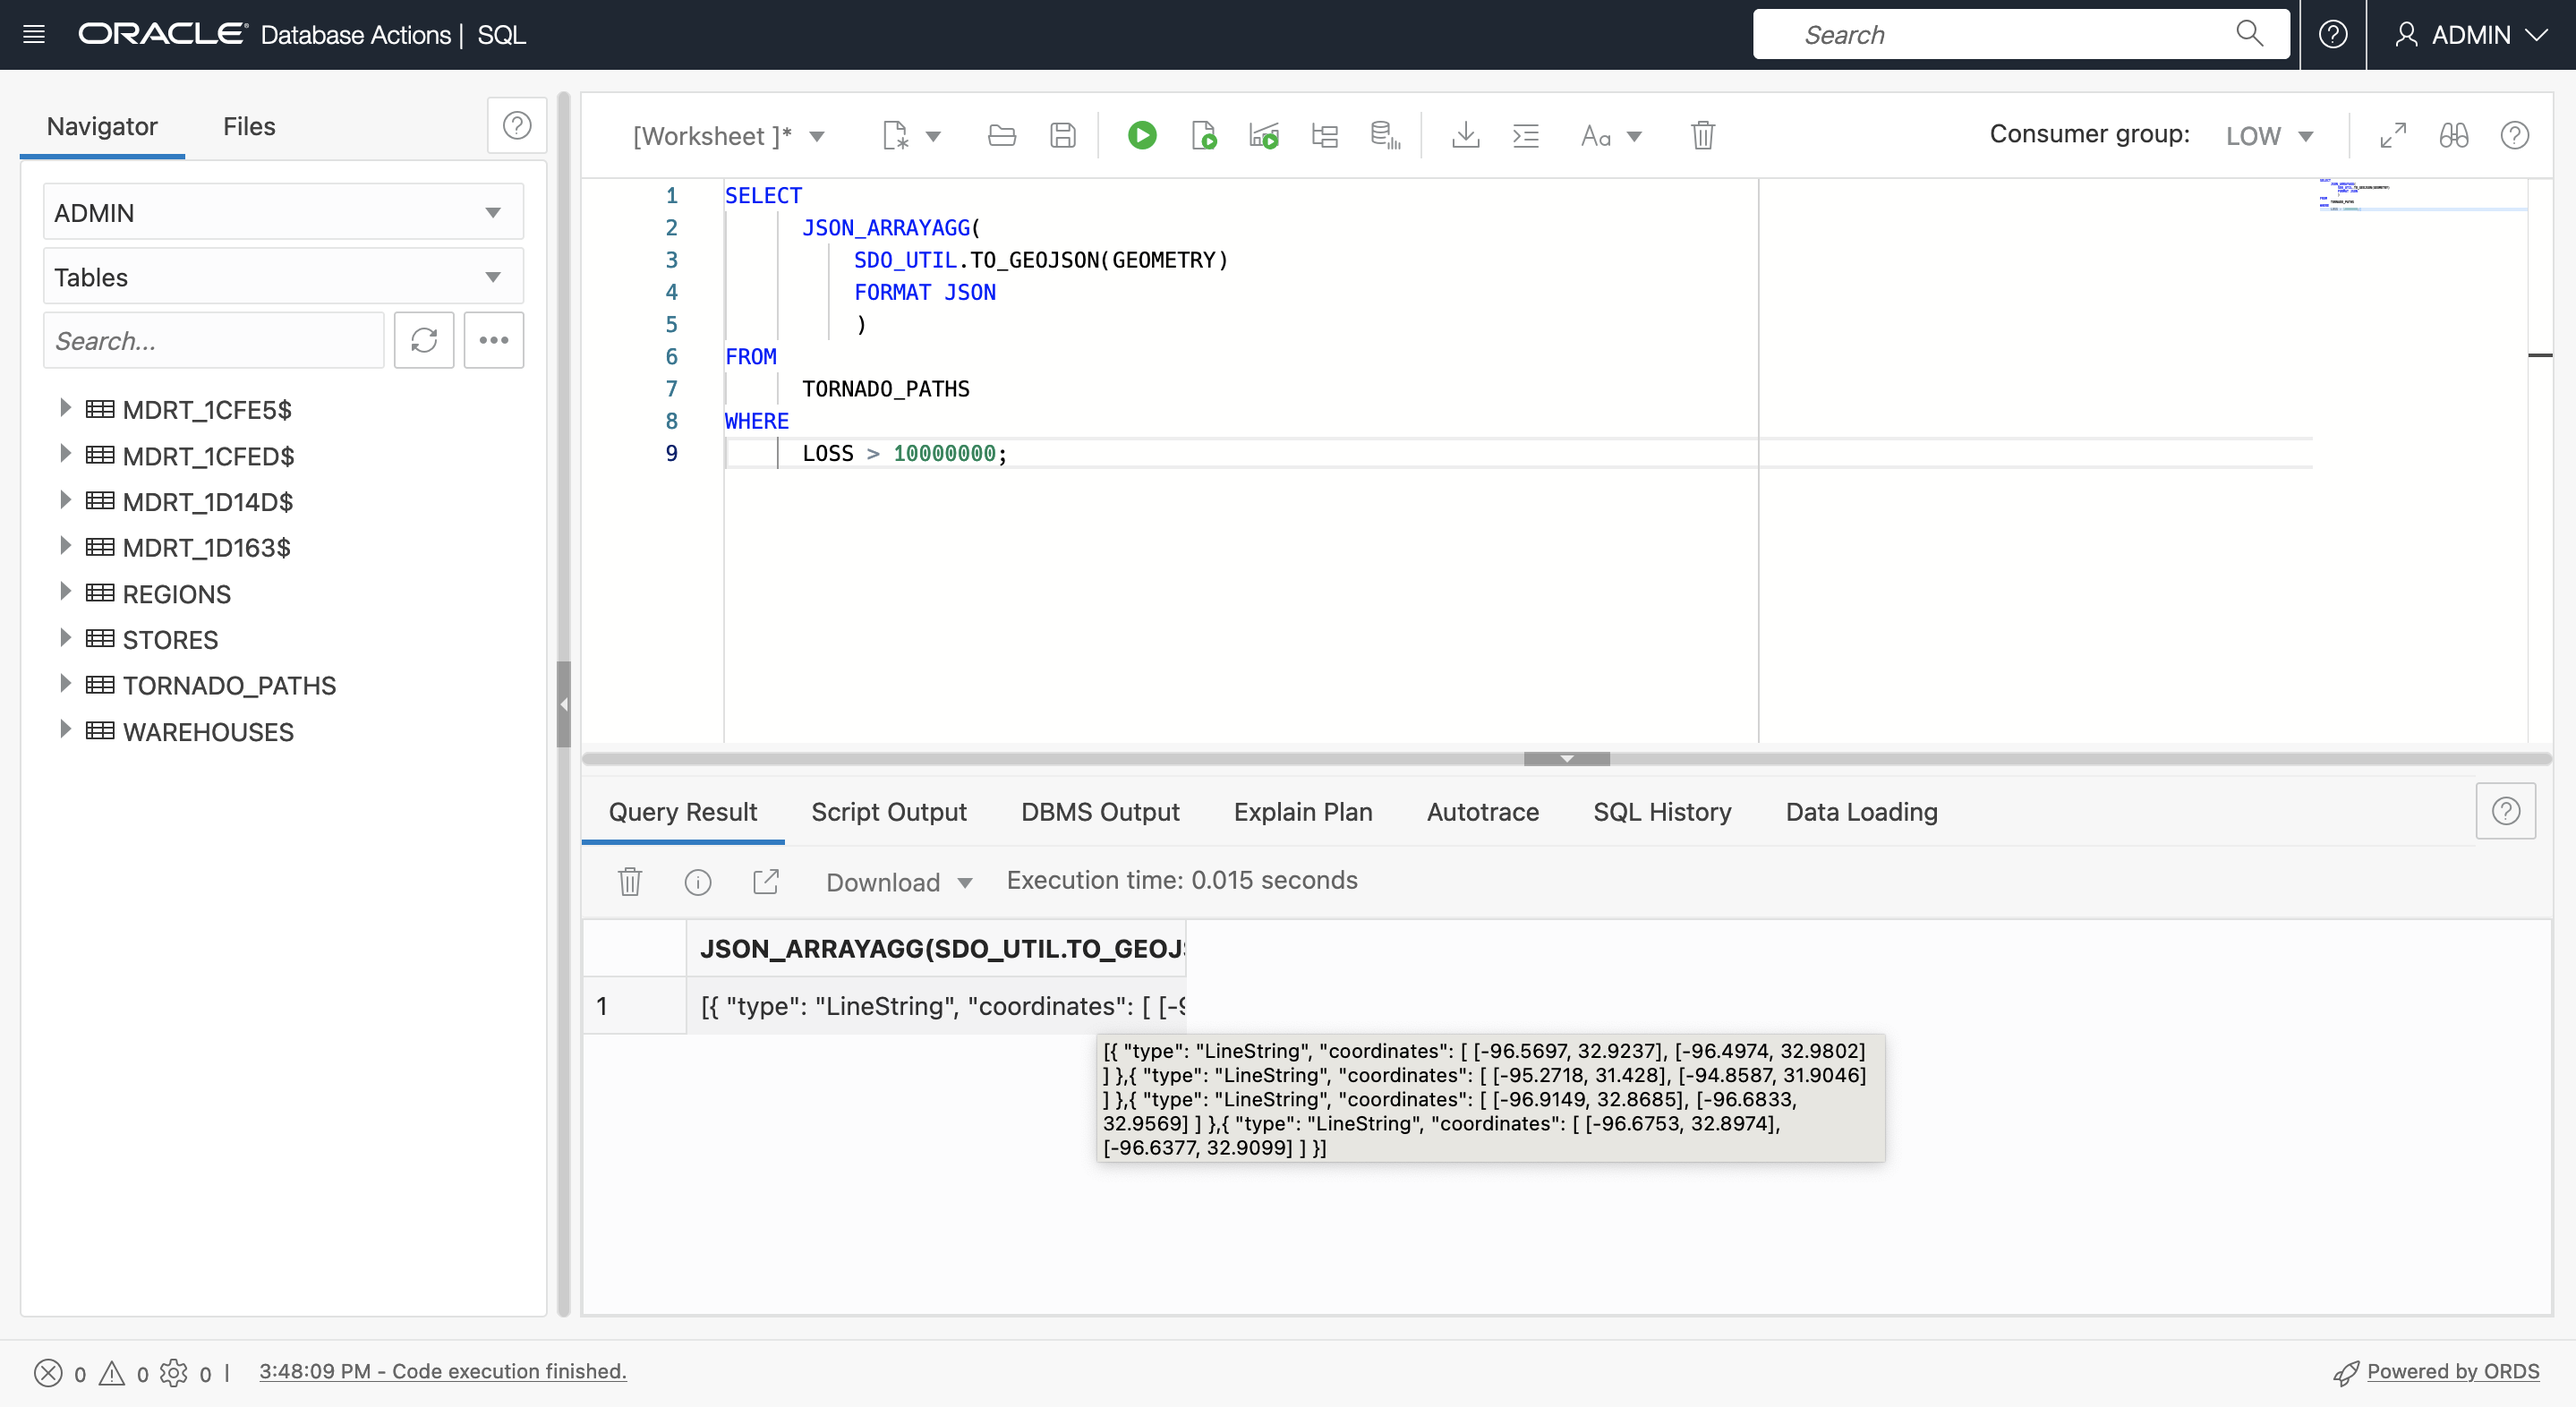
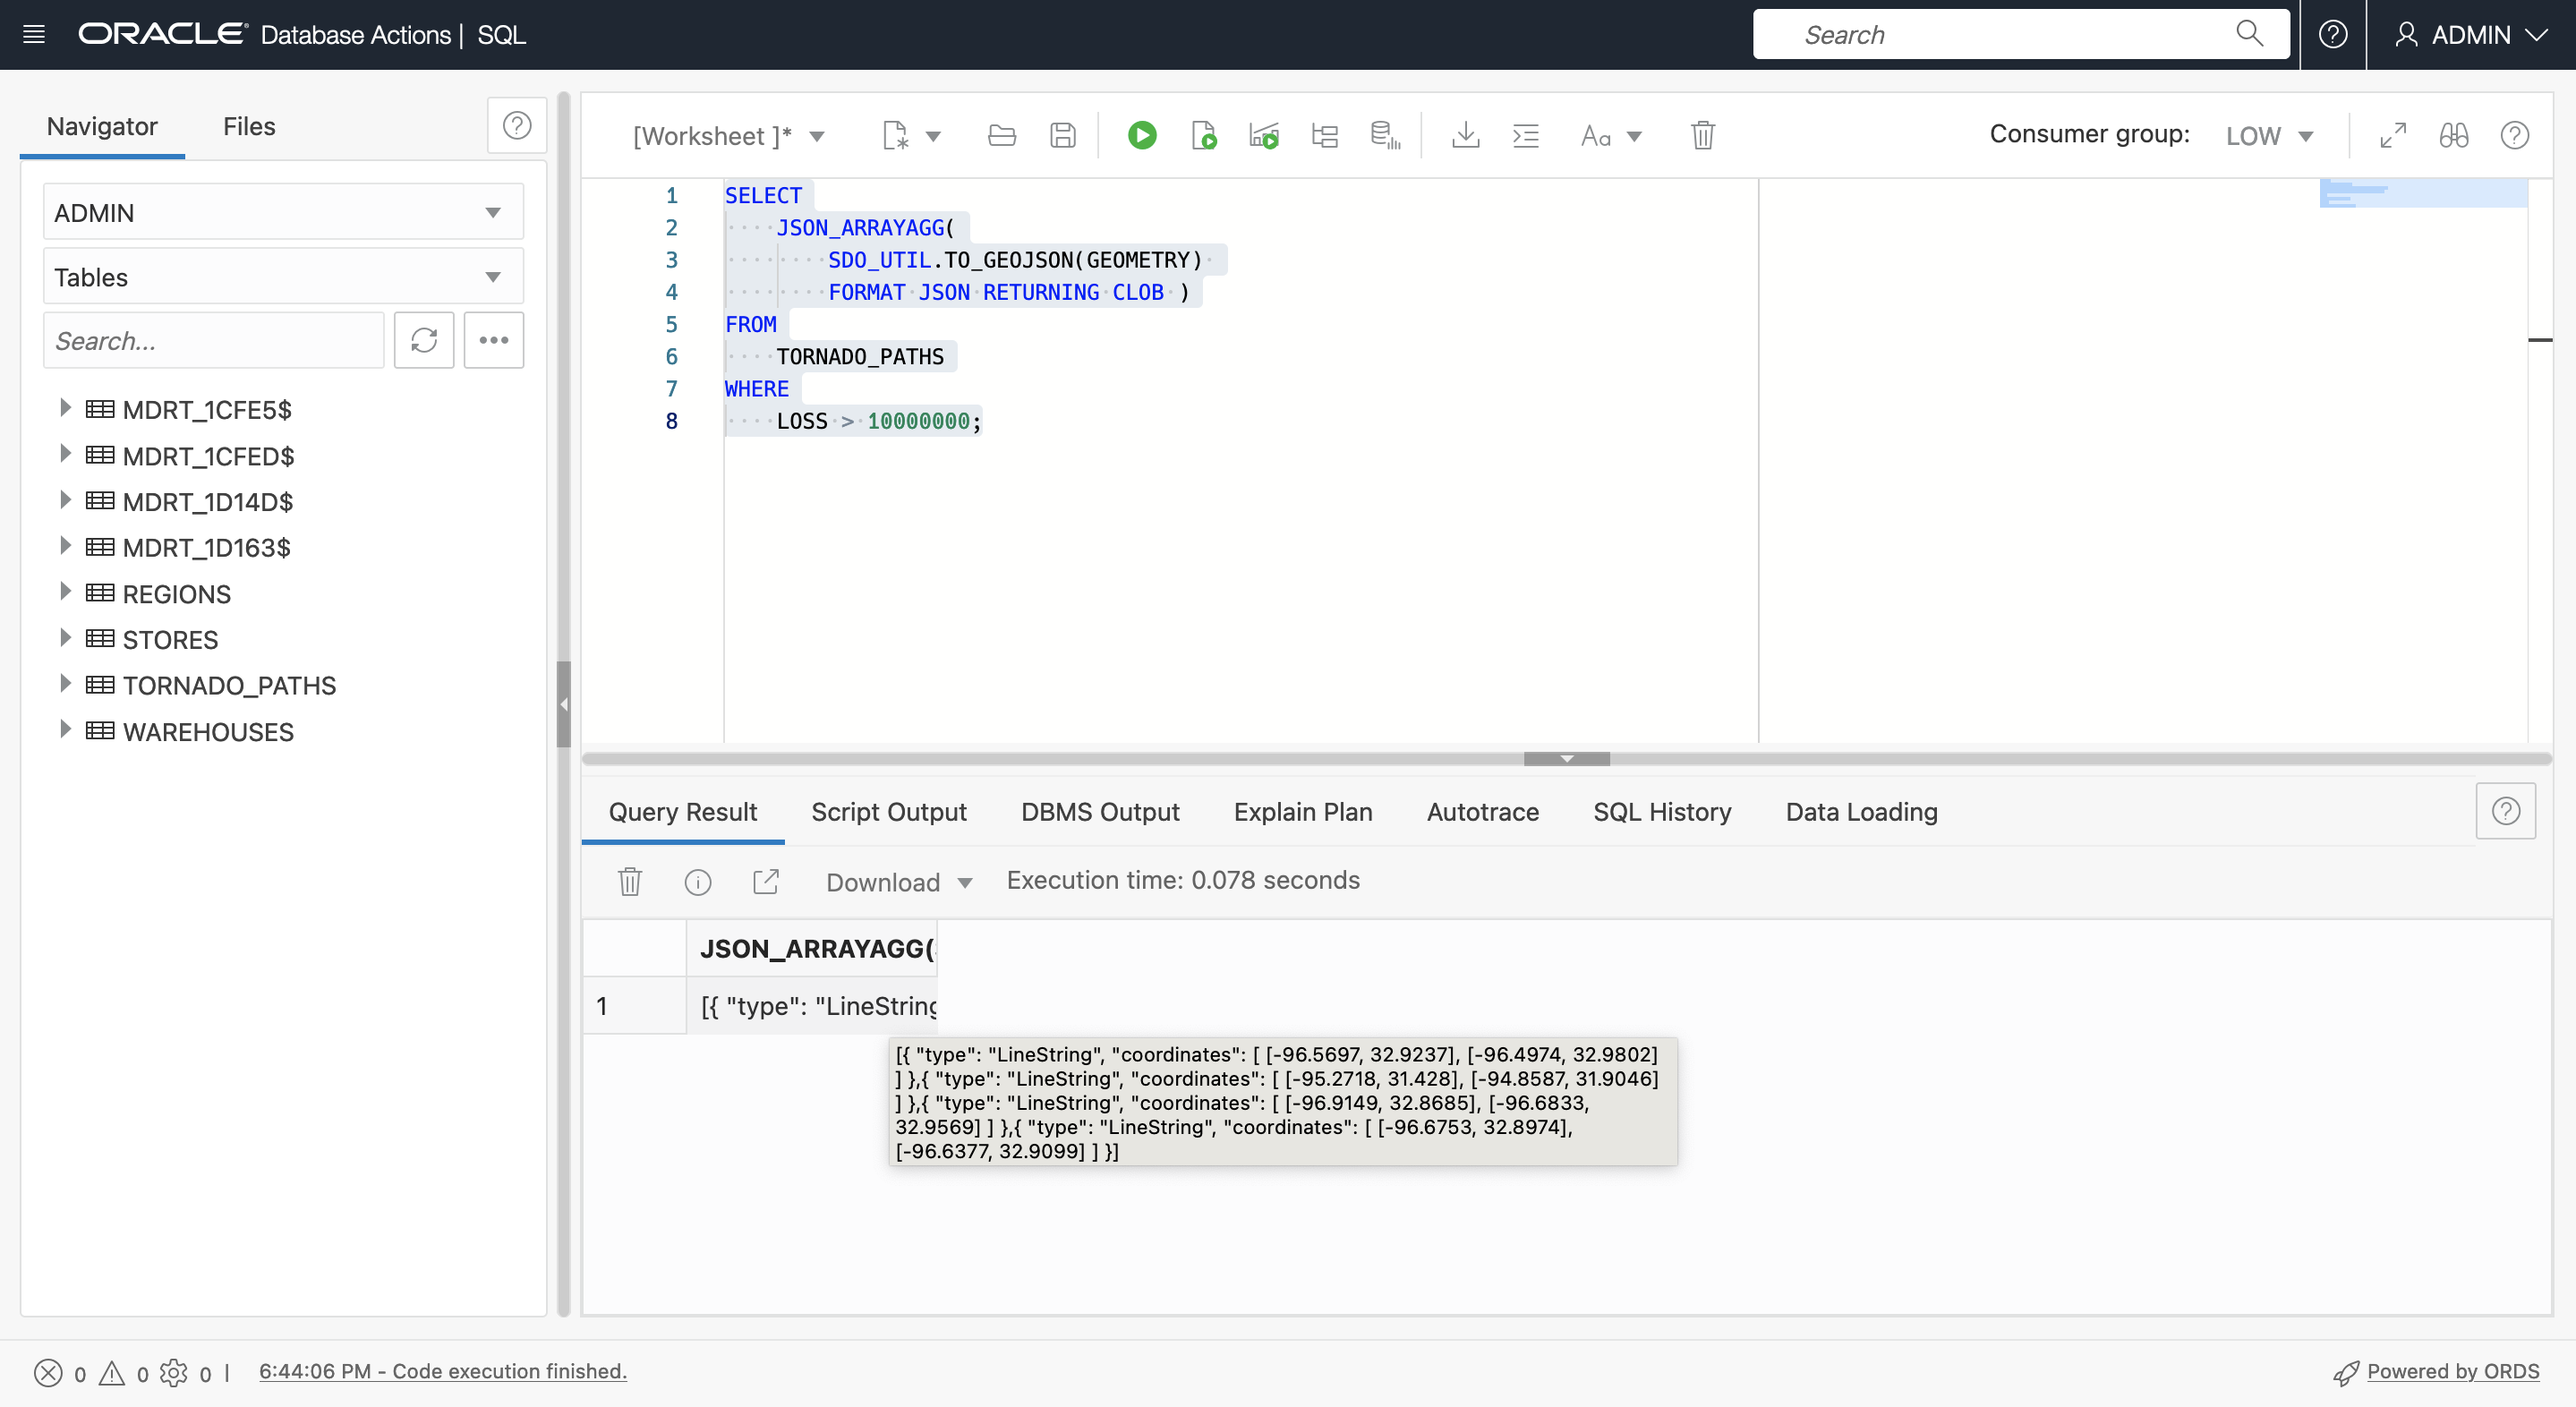
updates to return_geojson
updates to return_geojson

diff --git a/spatial/return-geojson/return-geojson.md b/spatial/return-geojson/return-geojson.md
@@ -16,8 +16,7 @@ WHERE
 SELECT
     JSON_ARRAYAGG(
         SDO_UTIL.TO_GEOJSON(GEOMETRY) 
-        FORMAT JSON
-        )
+        FORMAT JSON RETURNING CLOB )
 FROM
     TORNADO_PATHS
 WHERE
@@ -55,7 +54,8 @@ SELECT
         ||'","yr":"'|| YR
         ||'","loss":"'|| LOSS
         ||'"}, "geometry":'|| SDO_UTIL.TO_GEOJSON(GEOMETRY)
-        ||'}' FORMAT JSON)   
+        ||'}' 
+        FORMAT JSON RETURNING CLOB)   
 FROM
     TORNADO_PATHS
 WHERE
@@ -75,8 +75,10 @@ SELECT
         ||'","yr":"'|| YR
         ||'","loss":"'|| LOSS
         ||'"}, "geometry":'|| SDO_UTIL.TO_GEOJSON(GEOMETRY)
-        ||'}' FORMAT JSON)   
+        ||'}' 
+        FORMAT JSON RETURNING CLOB) 
     ||'}'
+    AS GEOJSON
 FROM
     TORNADO_PATHS
 WHERE
@@ -86,109 +88,25 @@ WHERE
 
 ![Image alt text](images/return-geojson-05.png)
 
+![Image alt text](images/return-geojson-06.png)
+
+![Image alt text](images/return-geojson-07.png)
 
 ```
 <copy> 
 SELECT
-  DUMP (
-    '{"type": "FeatureCollection", "features":'
-    || JSON_ARRAYAGG( 
-        '{"type": "Feature", "properties": {'
-        || '"key":"'|| KEY
-        ||'","yr":"'|| YR
-        ||'","loss":"'|| LOSS
-        ||'"}, "geometry":'|| SDO_UTIL.TO_GEOJSON(GEOMETRY)
-        ||'}' FORMAT JSON)   
-    ||'}'
-  ) as DUMP
-FROM
-    TORNADO_PATHS
-WHERE
-    LOSS > 10000000;
-</copy>
-```
-
-![Image alt text](images/return-geojson-xx.png)
-
-```
-<copy> 
-SELECT
-  DUMP (
-    '{"type": "FeatureCollection", "features":'
-    || JSON_ARRAYAGG( 
-        '{"type": "Feature", "properties": {'
-        || '"key":"'|| KEY
-        ||'","yr":"'|| YR
-        ||'","loss":"'|| LOSS
-        ||'"}, "geometry":'|| SDO_UTIL.TO_GEOJSON(GEOMETRY)
-        ||'}' FORMAT JSON RETURNING CLOB)   
-    ||'}'
-  ) as DUMP
-FROM
-    TORNADO_PATHS
-WHERE
-    LOSS > 10000000;
-</copy>
-```
-
-![Image alt text](images/return-geojson-xx.png)
-
-```
-<copy> 
-SELECT
-  DUMP (
-    TO_CLOB('{"type": "FeatureCollection", "features":')
-    || JSON_ARRAYAGG( 
-        '{"type": "Feature", "properties": {'
-        || '"key":"'|| KEY
-        ||'","yr":"'|| YR
-        ||'","loss":"'|| LOSS
-        ||'"}, "geometry":'|| SDO_UTIL.TO_GEOJSON(GEOMETRY)
-        ||'}' FORMAT JSON RETURNING CLOB)   
-    ||TO_CLOB('}')
-  ) as DUMP
-FROM
-    TORNADO_PATHS
-WHERE
-    LOSS > 10000000;
-</copy>
-```
-
-![Image alt text](images/return-geojson-xx.png)
-
-```
-<copy> 
-SELECT
-   TO_CLOB('{"type": "FeatureCollection", "features":')
-   || JSON_ARRAYAGG( 
-       '{"type": "Feature", "properties": {'
-       || '"key":"'|| KEY
-       ||'","yr":"'|| YR        ||'","loss":"'|| LOSS
-       ||'"}, "geometry":'|| SDO_UTIL.TO_GEOJSON(GEOMETRY)
-       ||'}' FORMAT JSON RETURNING CLOB)   
-   ||TO_CLOB('}')  AS GEOJSON
-FROM
-    TORNADO_PATHS
-WHERE
-    LOSS > 10000000;
-</copy>
-```
-
-![Image alt text](images/return-geojson-xx.png)
-
-```
-<copy> 
-SELECT
-   TO_CLOB('{"type": "FeatureCollection", "features":')
+   '{"type": "FeatureCollection", "features":'
    || JSON_ARRAYAGG( 
        '{"type": "Feature", "properties": {'
        || '"key":"'|| KEY
        ||'","yr":"'|| YR
        ||'","loss":"'|| LOSS
        ||'"}, "geometry":'|| SDO_UTIL.TO_GEOJSON(
-                              SDO_GEOM.SDO_BUFFER(GEOMETRY,5, 1,'unit=MILE'))
-       ||'}' FORMAT JSON RETURNING CLOB)   
-   ||TO_CLOB('}') AS GEOJSON
+                              SDO_GEOM.SDO_BUFFER(GEOMETRY, 5, 1, 'unit=MILE'))
+       ||'}' 
+       FORMAT JSON RETURNING CLOB)   
+   ||'}'
+   AS GEOJSON
 FROM
     TORNADO_PATHS
 WHERE
@@ -196,4 +114,6 @@ WHERE
 </copy>
 ```
 
-![Image alt text](images/return-geojson-xx.png)
+![Image alt text](images/return-geojson-08.png)
+
+![Image alt text](images/return-geojson-09.png)

diff --git a/spatial/cleanup/cleanup.md b/spatial/cleanup/cleanup.md
@@ -1,0 +1,70 @@
+# Cleanup
+
+
+## Introduction
+
+...
+
+Estimated Lab Time: xx minutes
+
+
+### About ...
+
+
+### Objectives
+
+In this lab, you will....
+
+
+### Prerequisites
+
+* ....
+
+<!--  *This is the "fold" - below items are collapsed by default*  -->
+
+
+
+## Remove Everything Created in this Workshop
+
+
+...
+
+```
+<copy> 
+DROP TABLE WAREHOUSES;
+DROP TABLE STORES;
+DROP TABLE REGIONS;
+DROP TABLE TORNADO_PATHS;
+</copy>
+```
+
+
+...
+
+```
+<copy> 
+DELETE FROM USER_SDO_GEOM_METADATA
+WHERE TABLE_NAME IN (
+    'WAREHOUSES', 
+    'STORES', 
+    'REGIONS', 
+    'TORNADO_PATHS');
+COMMIT;
+</copy>
+```
+
+![Image alt text](images/cleanup-xx.png)
+
+
+## Learn More
+
+* [Spatial product portal](https://oracle.com/goto/spatial)
+* [Spatial documentation](https://docs.oracle.com/en/database/oracle/oracle-database/19/spatl)
+* [Spatial blog posts on Oracle Database Insider](https://blogs.oracle.com/database/category/db-spatial)
+* [Spatial blog posts on Medium.com](https://medium.com/oracledevs/tagged/spatial)
+
+
+## Acknowledgements
+
+* **Author** - David Lapp, Database Product Management, Oracle
+* **Last Updated By/Date** -
